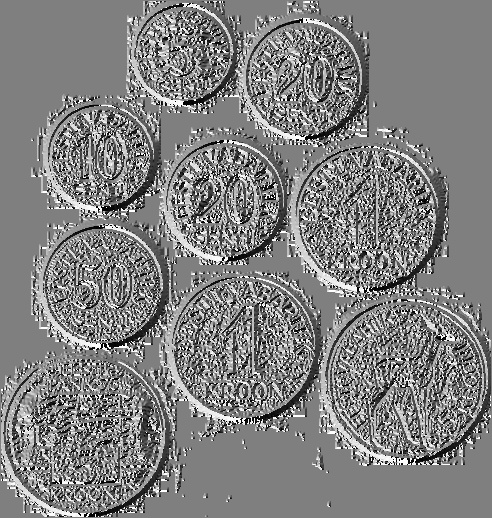
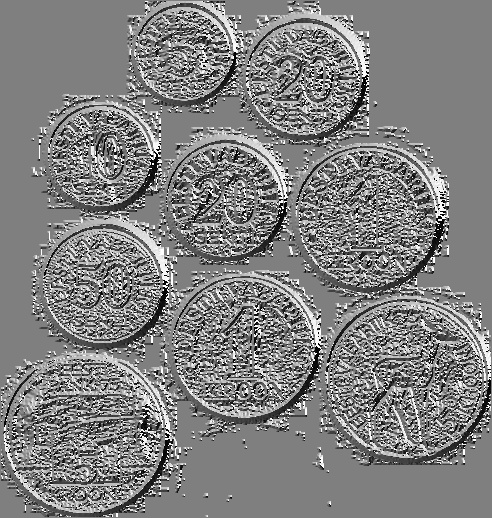
added hough init files

diff --git a/Lab4/hough.cpp b/Lab4/hough.cpp
@@ -5,24 +5,32 @@
 #include <opencv/cxcore.h>    //depending on your machine setup
 #include <math.h>
 
-#define PI 3.14159265
-
 using namespace cv;
-
-void GaussianBlur(
-	cv::Mat &input, 
-	int size,
-	cv::Mat &blurredOutput);
 
 void sobel(
   cv::Mat &input,
   cv::Mat &output_mag,
   cv::Mat &output_dir);
 
-Mat threshold(
-    cv::Mat input,
-    float value
-);
+Mat threshold(Mat input, int value)
+{
+    Mat output = Mat(input.rows, input.cols, CV_8UC1, Scalar(0));
+    for(int i=0; i<input.rows; i++)
+    {
+        for(int j=0; j<input.cols; j++)
+        {
+            if(input.at<uchar>(i, j) > value)
+            {
+                output.at<uchar>(i, j)  = 255;
+            }
+            else
+            {
+                output.at<uchar>(i, j) = 0;
+            }
+        }
+    }
+    return output;
+}
 
 int main( int argc, char** argv )
 {
@@ -43,151 +51,49 @@ int main( int argc, char** argv )
   Mat gray_image;
   cvtColor( image, gray_image, CV_BGR2GRAY );
 
-  Mat image_mag(gray_image.size(), CV_32FC1);
-  Mat image_dir(gray_image.size(), CV_32FC1);
+  Mat image_mag(gray_image.rows, gray_image.cols, CV_32FC1, Scalar(0));
+  Mat image_dir(gray_image.rows, gray_image.cols, CV_32FC1, Scalar(0));
 
   sobel(gray_image, image_mag, image_dir);
+
+  Mat magnitude_img = imread( "mag.jpg", 0 );
+  Mat direction_img = imread( "dir.jpg", 0 );  
+
+  Mat thresholded = threshold(magnitude_img, 75);
+  imwrite("thresholded.jpg", thresholded);
 
   return 0;
 }
 
-Mat threshold(Mat input, float value)
-{
-    Mat output = Mat(input.rows, input.cols, CV_8UC1);
-    for(int i=0; i<input.rows; i++)
-    {
-        for(int j=0; j<input.cols; j++)
-        {
-            if(input.at<float>(i, j) > value)
-            {
-                output.at<float>(i, j)  = 255;
-            }
-            else
-            {
-                output.at<float>(i, j) = 0;
-            }
-        }
-    }
-    return output;
-}
-
 void sobel(cv::Mat &input, cv::Mat &output_mag, cv::Mat &output_dir)
 {
-  Mat dx_kernel = cv::Mat(3, 3, CV_32FC1);
-  dx_kernel.at<float>(0, 0) = -1;
-  dx_kernel.at<float>(0, 1) = 0;
-  dx_kernel.at<float>(0, 2) = -1;
-  dx_kernel.at<float>(1, 0) = -2;
-  dx_kernel.at<float>(1, 1) = 0;
-  dx_kernel.at<float>(1, 2) = 2;
-  dx_kernel.at<float>(2, 0) = -1;
-  dx_kernel.at<float>(2, 1) = 0;
-  dx_kernel.at<float>(2, 2) = 1;
+  Mat dx_kernel = (Mat_<int>(3, 3) << -1, 0, 1, -2, 0, 2, -1, 0, 1);
 
   Mat dy_kernel = dx_kernel.t();
 
-  // we need to create a padded version of the input
-  // or there will be border effects
-  int kernelRadiusX = ( dx_kernel.size[0] - 1 ) / 2;
-  int kernelRadiusY = ( dx_kernel.size[1] - 1 ) / 2;
-
-  cv::Mat paddedInput;
-  cv::copyMakeBorder( input, paddedInput, 
-		kernelRadiusX, kernelRadiusX, kernelRadiusY, kernelRadiusY,
-		cv::BORDER_REPLICATE );
-
-    // now we can do the convolution
-    for(int i=0; i<input.rows; i++)
+    for(int i=1; i<input.rows - 1; i++)
     {
-      for(int j=0; j<input.cols; j++)
-      {
-        float sum_x = 0.0;
-        float sum_y = 0.0;
-
-        for(int m=-kernelRadiusX; m<=kernelRadiusX; m++)
+        for(int j=1; j<input.cols - 1; j++)
         {
-          for(int n=-kernelRadiusY; n<=kernelRadiusY; n++)
-          {
-            // find the correct indices we are using
-            int imagex = i + m + kernelRadiusX;
-            int imagey = j + n + kernelRadiusY;
-            int kernelx = m + kernelRadiusX;
-            int kernely = n + kernelRadiusY;
-
-            // get the values from the padded image and the kernel
-            int imageval = ( int ) paddedInput.at<uchar>( imagex, imagey );
-            float kernelvalX = dx_kernel.at<float>( kernelx, kernely );
-            float kernelvalY = dy_kernel.at<float>( kernelx, kernely );
-
-            // do the multiplication
-            sum_x += imageval * kernelvalX;
-            sum_y += imageval * kernelvalY;
-          }
+            float pixelX = 0;
+            float pixelY = 0;
+            for(int x=-1; x<=1; x++)
+            {
+                for(int y=-1; y<=1; y++)
+                {
+                    pixelX += input.at<uchar>(i-x, j-y) * dx_kernel.at<int>(x+1, y+1);
+                    pixelY += input.at<uchar>(i-x, j-y) * dy_kernel.at<int>(x+1, y+1);
+                }
+            }
+            output_mag.at<float>(i, j) = sqrt(pixelX*pixelX + pixelY*pixelY);
+            output_dir.at<float>(i, j) = atan2(pixelY, pixelX);
         }
-      // set the output value as the sum of the convolution
-	  output_mag.at<float>(i, j) = sqrt(pow(sum_x, 2) + pow(sum_y, 2));
-	  output_dir.at<float>(i, j) = atan((sum_x)/(sum_y)) * 180/PI;
-      }
     }
-    cv::normalize(output_mag, output_mag, 0, 255, cv::NORM_MINMAX);
-    // cv::normalize(output_dir, output_dir, 0, 255, cv::NORM_MINMAX);
-  imwrite( "mag.jpg", output_mag );
-  imwrite( "dir.jpg", output_dir );
-}
 
-void GaussianBlur(cv::Mat &input, int size, cv::Mat &blurredOutput)
-{
-	// intialise the output using the input
-	blurredOutput.create(input.size(), input.type());
-
-	// create the Gaussian kernel in 1D 
-	cv::Mat kX = cv::getGaussianKernel(size, -1);
-	cv::Mat kY = cv::getGaussianKernel(size, -1);
-	
-	// make it 2D multiply one by the transpose of the other
-	cv::Mat kernel = kX * kY.t();
-
-	//CREATING A DIFFERENT IMAGE kernel WILL BE NEEDED
-	//TO PERFORM OPERATIONS OTHER THAN GUASSIAN BLUR!!!
-
-	// we need to create a padded version of the input
-	// or there will be border effects
-	int kernelRadiusX = ( kernel.size[0] - 1 ) / 2;
-	int kernelRadiusY = ( kernel.size[1] - 1 ) / 2;
-
-	cv::Mat paddedInput;
-	cv::copyMakeBorder( input, paddedInput, 
-		kernelRadiusX, kernelRadiusX, kernelRadiusY, kernelRadiusY,
-		cv::BORDER_REPLICATE );
-
-	// now we can do the convolution
-	for ( int i = 0; i < input.rows; i++ )
-	{	
-		for( int j = 0; j < input.cols; j++ )
-		{
-			double sum = 0.0;
-			for( int m = -kernelRadiusX; m <= kernelRadiusX; m++ )
-			{
-				for( int n = -kernelRadiusY; n <= kernelRadiusY; n++ )
-				{
-					// find the correct indices we are using
-					int imagex = i + m + kernelRadiusX;
-					int imagey = j + n + kernelRadiusY;
-					int kernelx = m + kernelRadiusX;
-					int kernely = n + kernelRadiusY;
-
-					// get the values from the padded image and the kernel
-					int imageval = ( int ) paddedInput.at<uchar>( imagex, imagey );
-					double kernalval = kernel.at<double>( kernelx, kernely );
-
-					// do the multiplication
-					sum += imageval * kernalval;							
-				}
-			}
-			// set the output value as the sum of the convolution
-			blurredOutput.at<uchar>(i, j) = (uchar) sum;
-		
-		}
-	}
-
+    Mat final_mag(output_mag.size(), CV_32FC1);
+    Mat final_dir(output_dir.size(), CV_32FC1);
+    cv::normalize(output_mag, final_mag, 0, 255, cv::NORM_MINMAX);
+    cv::normalize(output_dir, final_dir, 0, 255, cv::NORM_MINMAX);
+  imwrite( "mag.jpg", final_mag );
+  imwrite( "dir.jpg", final_dir );
 }

diff --git a/Lab4/convolution.cpp b/Lab4/convolution.cpp
@@ -7,11 +7,6 @@
 
 using namespace cv;
 
-void GaussianBlur(
-	cv::Mat &input, 
-	int size,
-	cv::Mat &blurredOutput);
-
 void sobel(
   cv::Mat &input,
   cv::Mat &output_dx,
@@ -71,7 +66,7 @@ void sobel(cv::Mat &input, cv::Mat &output_dx, cv::Mat &output_dy, cv::Mat &outp
             output_dx.at<float>(i, j) = pixelX;
             output_dy.at<float>(i, j) = pixelY;
             output_mag.at<float>(i, j) = sqrt(pixelX*pixelX + pixelY*pixelY);
-            output_dir.at<float>(i, j) = atan2(pixelX, pixelY);
+            output_dir.at<float>(i, j) = atan2(pixelY, pixelX);
         }
     }
 
